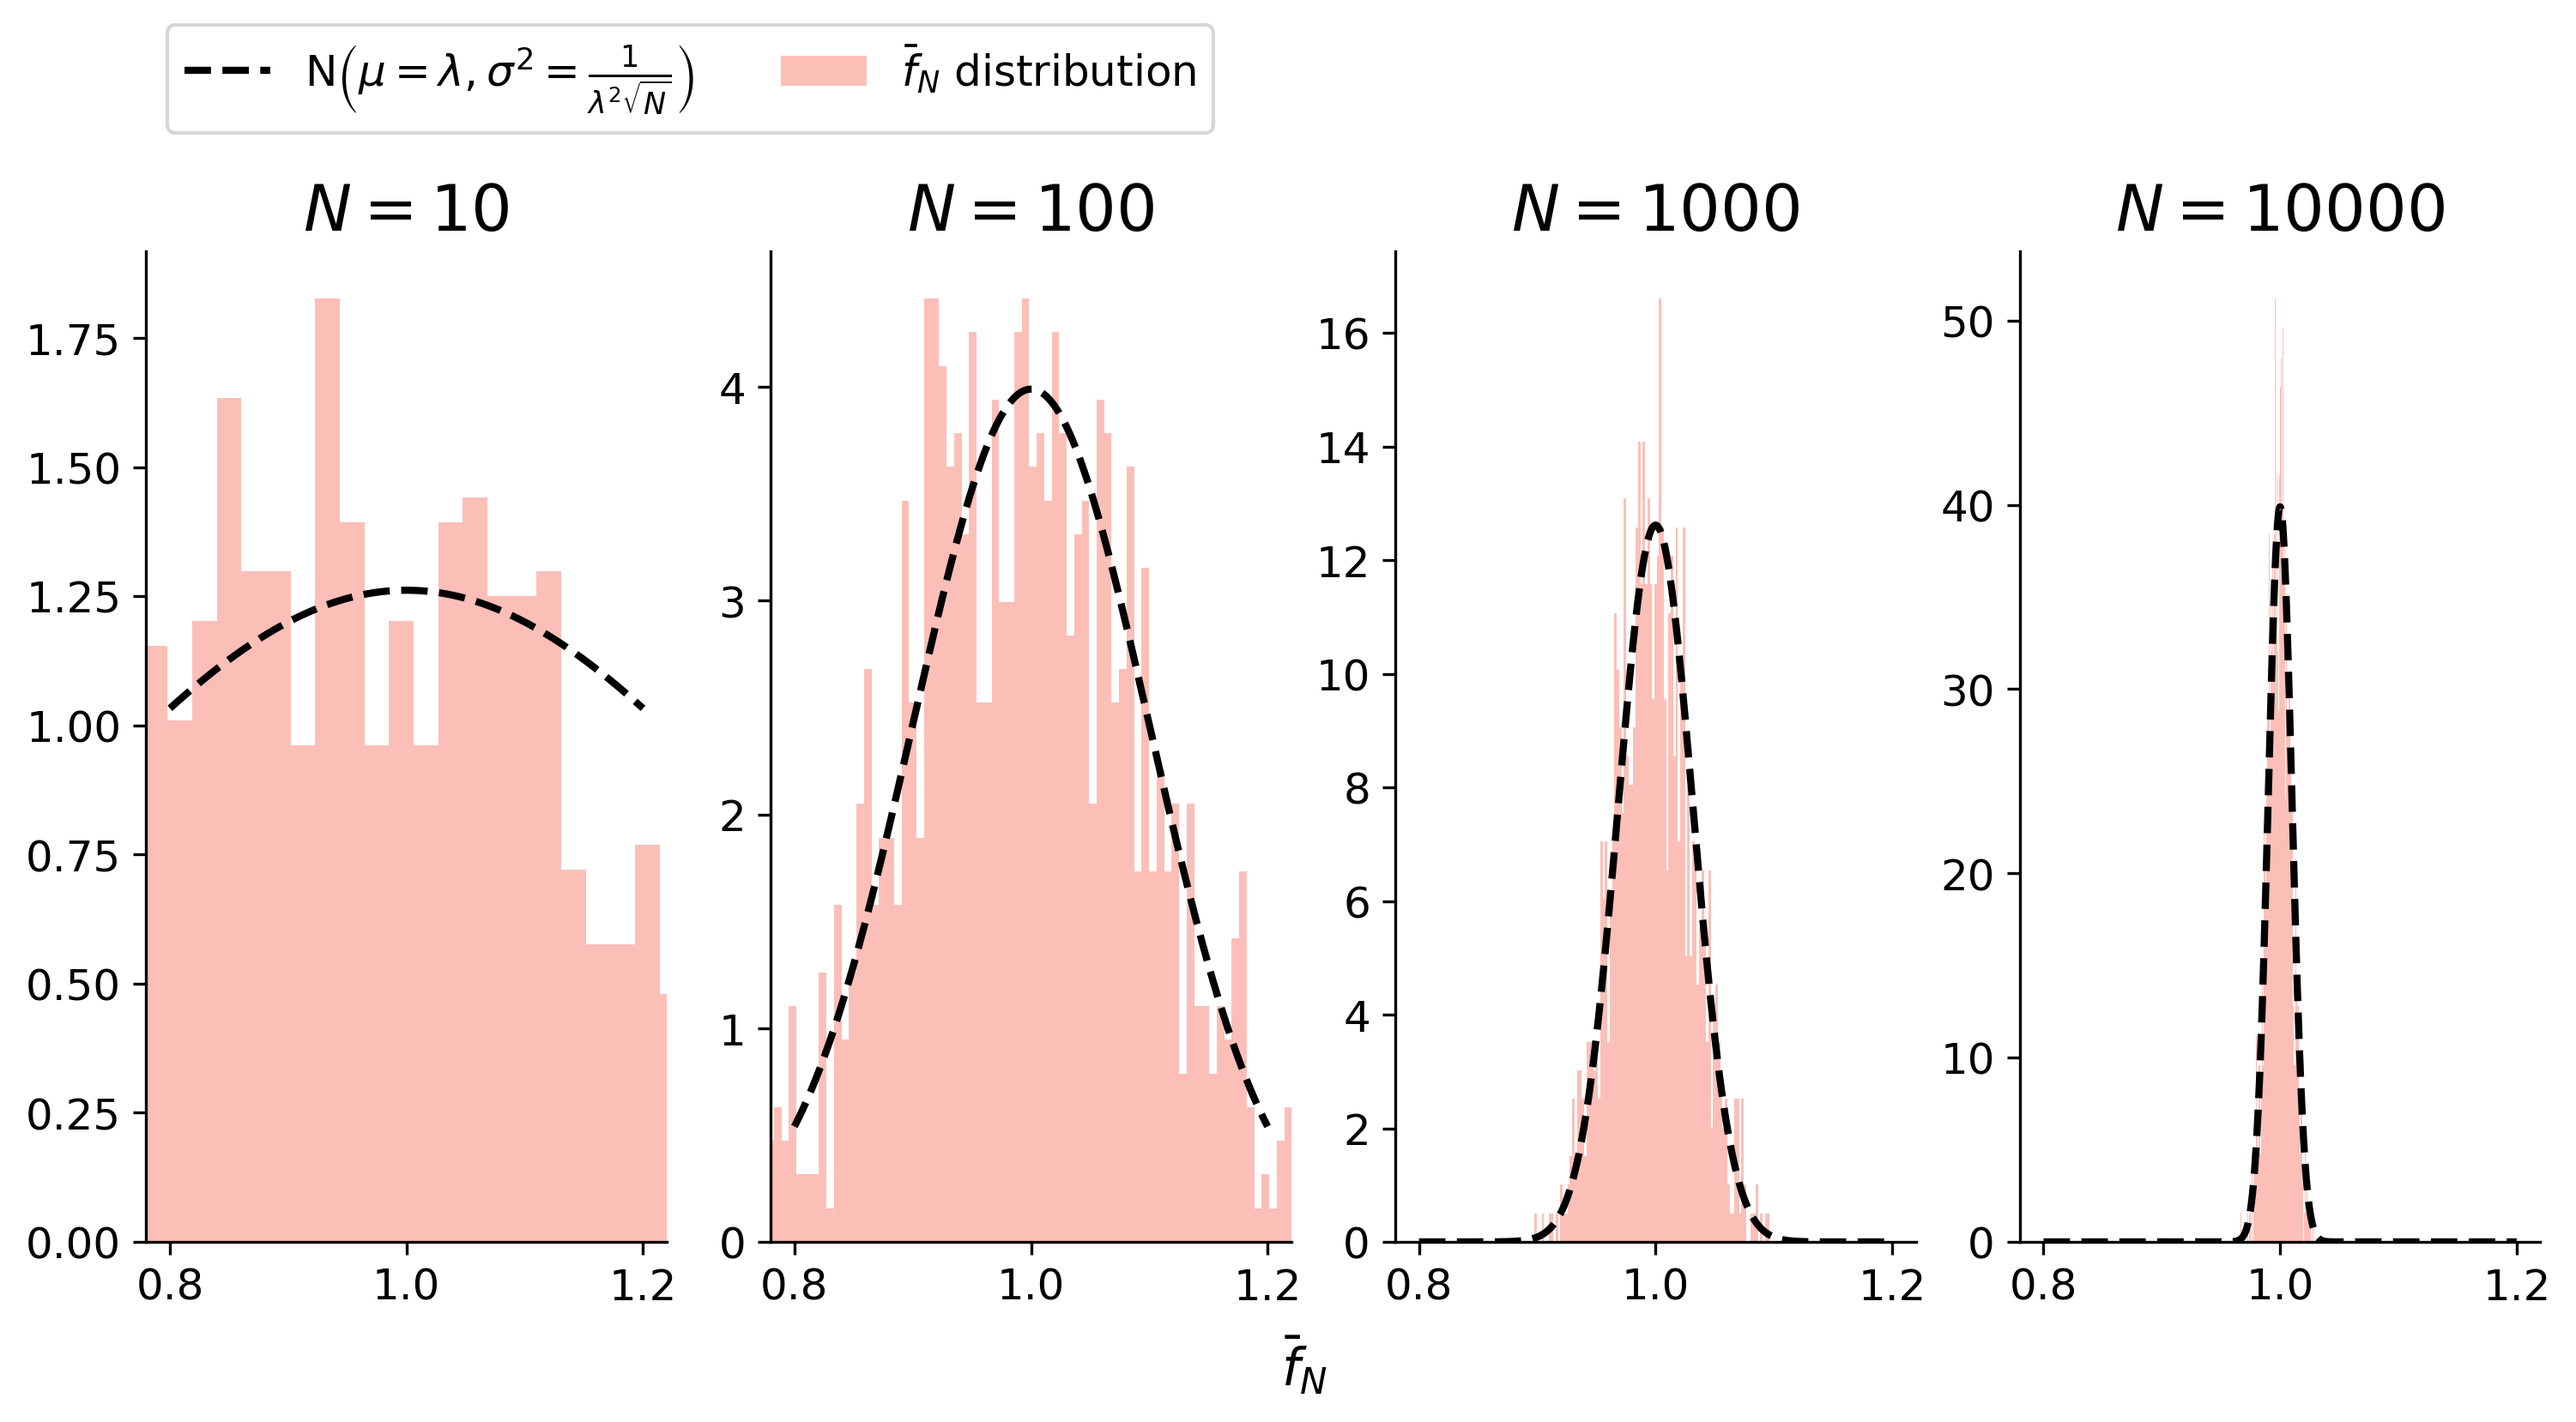
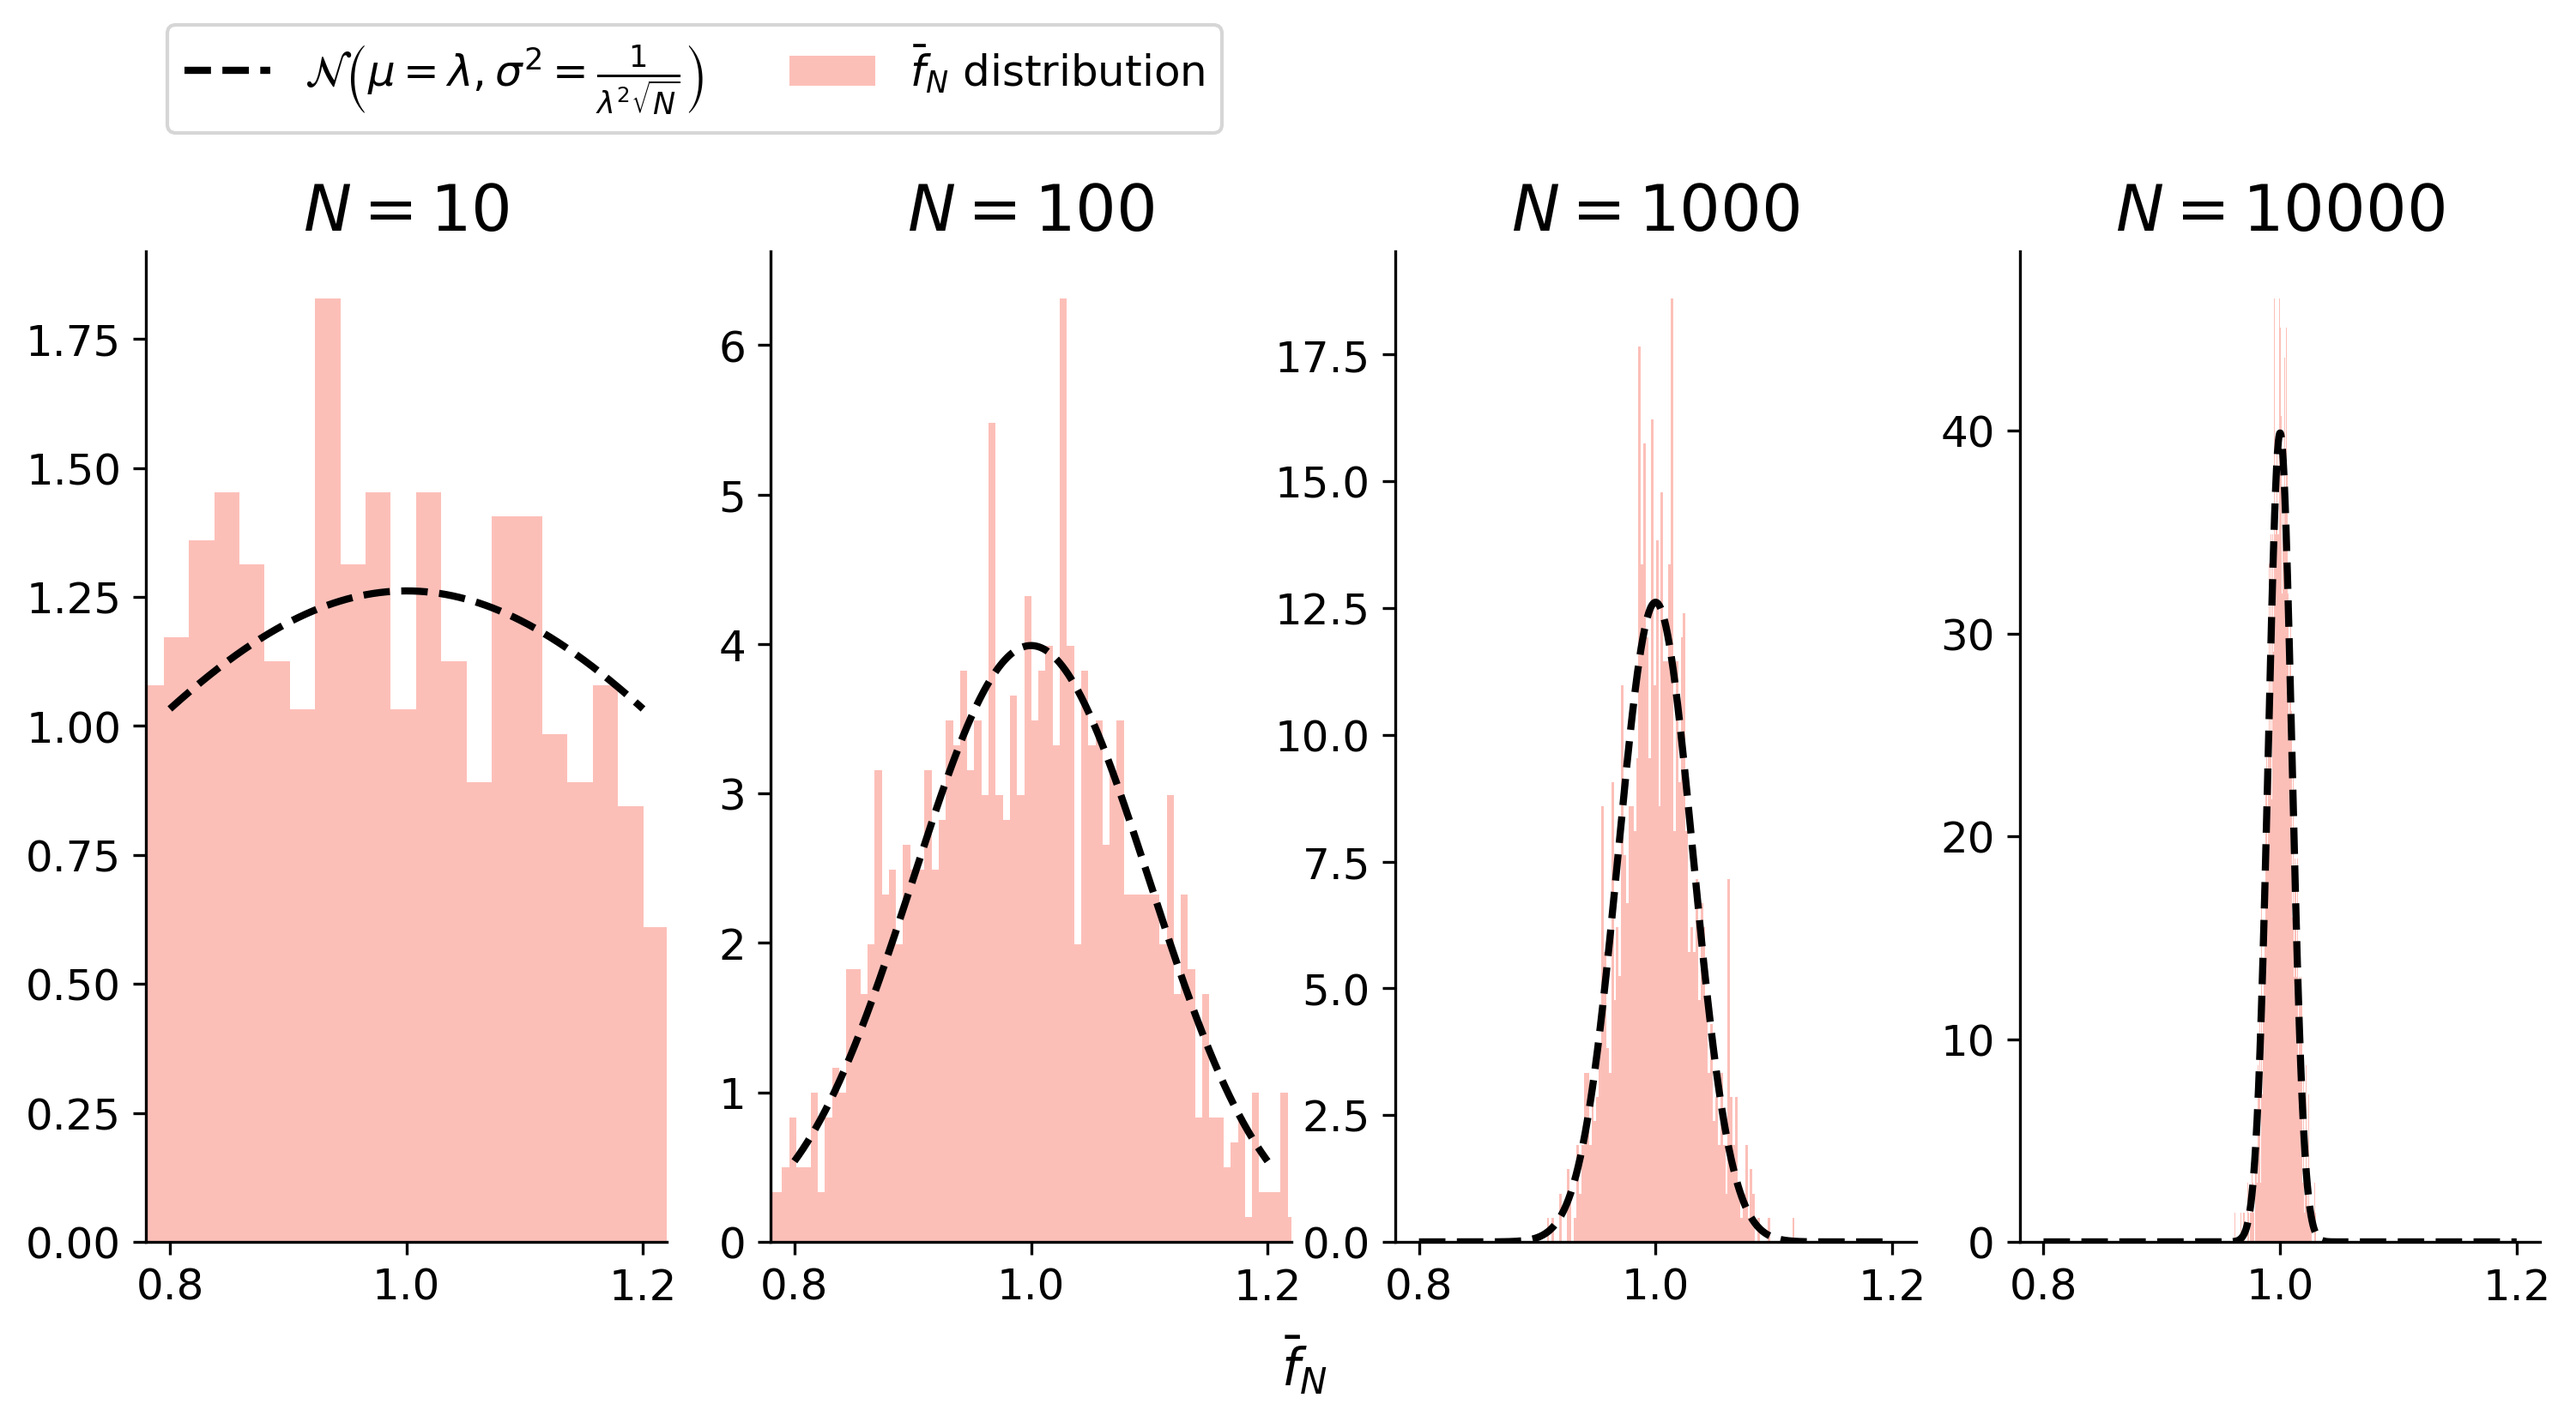
update homework 01

diff --git a/homework/HW01/HW01_CascanteVegaJaime_N19711762.py b/homework/HW01/HW01_CascanteVegaJaime_N19711762.py
@@ -1,0 +1,326 @@
+import numpy.random as dist
+import numpy as np
+import tqdm
+import os
+
+import matplotlib.pyplot as plt
+from plot_utils import *
+
+### 1
+def sample_exponential(num_samples=100, num_repetitions=1, λ=1):
+    """ Sample from exponential distribution with parameter λ.
+
+    Args:
+        num_samples (int, optional): Number of independent samples. Defaults to 100.
+
+    Returns:
+        np.array: column vector of samples of size [num_samples, 1]
+    """
+    return dist.exponential(λ, [num_samples, num_repetitions])
+
+def compute_sample_average(samples):
+    """ Compute the sample average of a column vector.
+
+    Args:
+        samples (np.array): column vector of samples, size [num_samples, 1]
+
+    Returns:
+        np.float64: sample average
+    """
+    return np.mean(samples, 0)
+
+def compute_sample_variance(samples):
+    """ Compute the sample variance of a column vector.
+
+    Args:
+        samples (np.array): column vector of samples, size [num_samples, 1]
+
+    Returns:
+        np.float64: sample variance
+    """
+    return np.var(samples, 0)
+
+def compute_deviation_prob(f_ave, π_f=1, ε=1e-2):
+    """ Probability that Monte Carlo estimate deviates from truth by more than ε.
+
+    Args:
+        f_ave (_type_): Sample average computed from Monte Carlo. Size is [num_repetitions, 1]
+
+    Returns:
+        _type_: _description_
+    """
+    n      = f_ave.shape[0]
+    P_cheb = np.sum(np.abs(f_ave - π_f)>ε)/n
+    return P_cheb
+
+def compute_chebyshev_numerical_bound(f_ave_var, ε=1e-2):
+    """ Numerical upper bound on deviation probability using Chebyshev's inequality.
+
+    Args:
+        f_ave_var : Variance of the Monte carlo error estimate of \bar{f}_N. Size is [num_repetitions, 1]
+
+    Returns:
+        np.float64: Upper bound on deviation probability
+    """
+    P_bound_meas = f_ave_var/(ε**2)
+    return P_bound_meas
+
+def compute_chebyshev_theoretical_bound(σ2=1, ε=1e-2, n=1000):
+    """ Theoretical upper bound on deviation probability using Chebyshev's inequality.
+
+    Args:
+        σ2 (int, optional): Variance of the random variable. Defaults to 1.
+        ε (int, optional): error allowed. Defaults to 1e-2.
+        n (int, optional): sample size. Defaults to 1000.
+
+    Returns:
+        np.float64: Upper bound on deviation probability
+    """
+    P_bound_theo = σ2/(n * ε**2)
+    return P_bound_theo
+
+num_samples     = 1000
+num_repetitions = 10000
+
+samples = sample_exponential(num_samples, num_repetitions)
+
+f_ave = compute_sample_average(samples)
+f_var = compute_sample_variance(f_ave)
+
+# by chebyshev
+ε   = 1e-4
+π_f = 1
+σ2  = 1
+
+
+epsilons = np.linspace(1e-4, 1e-1, 300)
+
+P_chebyshev  = np.full_like(epsilons, np.nan)
+P_num_bound  = np.full_like(epsilons, np.nan)
+P_theo_bound = np.full_like(epsilons, np.nan)
+
+
+for i, εi in enumerate(epsilons):
+    P_chebyshev[i]  = compute_deviation_prob(f_ave, π_f, εi)
+    P_num_bound[i]  = compute_chebyshev_numerical_bound(f_var, εi)
+    P_theo_bound[i] = compute_chebyshev_theoretical_bound(σ2, εi, num_samples)
+
+fig, ax = plt.subplots(1, 1, figsize=(7.2, 5))
+
+ax.plot(epsilons, P_chebyshev,  lw=2, ls="-",  color="k",      label  = r'$P\left(\left|\bar{f}_N-\pi(f)\right|>\epsilon\right)$')
+ax.plot(epsilons, P_num_bound,  lw=2, ls="-",  color="salmon", label  = r'Chebyshev, numerical bound. $\mathrm{Var}\left(\bar{f}_N\right)/\epsilon^2$')
+ax.plot(epsilons, P_theo_bound, lw=2, ls="-.", color="teal",   label = r'Chebyshev, theoretical bound. $\sigma^2/(\epsilon^2\cdot N)$')
+
+ax.set_yscale('log')
+ax.set_xlabel(r'$\mathbf{ε}$')
+ax.legend()
+
+ax.spines['right'].set_visible(False)
+ax.spines['top'].set_visible(False)
+
+fig.savefig(os.path.join(".", "prob01_WLLN.png"),
+                                            dpi=300, transparent=True, bbox_inches='tight')
+
+###########################################################################
+#                       Central Limit theorem                             #
+###########################################################################
+
+def sample_normal(num_samples=100, μ=0, σ=1):
+    """ Sample from normal distribution with parameters μ and σ.
+
+    Args:
+        num_samples (int, optional): Number of independent samples. Defaults to 100.
+
+    Returns:
+        np.array: column vector of samples of size [num_samples, 1]
+    """
+    return dist.normal(μ, σ, [num_samples])
+
+def normal_distribution(x, μ=0, σ=1):
+    """ pdf of normal distribution with parameters μ and σ.
+    """
+    return (1/(σ*np.sqrt(2*np.pi)))*np.exp(-0.5*((x-μ)/σ)**2)
+
+
+λ = 1
+x = np.linspace(0.8, 1.2, 1000)
+
+
+fig, ax = plt.subplots(1, 4, figsize=(12, 5))
+
+for i, num_samples in enumerate([10, 100, 1000, 10000]):
+
+    num_samples = int(num_samples)
+
+    num_repetitions = int(1000)
+    exp_samples     = sample_exponential(num_samples, num_repetitions)
+    f_ave           = compute_sample_average(exp_samples)
+
+    f_clt = sample_normal(num_samples=int(1e6), μ=λ, σ=(1/λ**2)/np.sqrt(num_samples))
+    Xn    = normal_distribution(x, μ=λ, σ=(1/λ**2)/np.sqrt(num_samples))
+
+
+    ax[i].plot(x, Xn, lw=2, ls="--", color="k", label=r'$\mathcal{N}\left(\mu=\lambda, \sigma^2=\frac{1}{\lambda^2\sqrt{N}}\right)$')
+    ax[i].hist(f_ave, bins=100, density=True, color="salmon", alpha=0.5, label=r'$\bar{f}_N$ distribution')
+
+    ax[i].set_title(r'$N={}$'.format(num_samples))
+
+for axi in ax:
+    axi.spines['right'].set_visible(False)
+    axi.spines['top'].set_visible(False)
+    axi.set_xlim((0.78, 1.22))
+
+ax[0].legend(loc='upper left', bbox_to_anchor=(0.0, 1.25), ncol=2)
+
+fig.supxlabel(r'$\bar{f}_N$', y=-.01)
+
+fig.savefig(os.path.join(".", "prob01_CLT.png"),
+                                            dpi=300, transparent=True, bbox_inches='tight')
+
+
+def crps(pred_samples, truth):
+    num_samples = pred_samples.shape[0]
+    pred   = np.sort(pred_samples)
+    diff   = pred[1:] - pred[:-1]
+    weight = np.arange(1, num_samples) * np.arange( num_samples - 1, 0, -1)
+
+    return np.abs(pred - truth).mean(0) - (diff * weight).sum(0) / num_samples**2
+
+def Kullback_Leibler(p, q):
+    kl = p*np.log(p/q)
+    return kl[np.isfinite(kl)].sum()
+
+num_samples_arr = np.logspace(1.0, 5.0, num=30)
+
+Var_f        = np.full(num_samples_arr.shape, np.nan)
+error_f      = np.full(num_samples_arr.shape, np.nan)
+error_normal = np.full(num_samples_arr.shape, np.nan)
+
+error_clt = np.full(num_samples_arr.shape, np.nan)
+
+bins      = np.linspace(0.75, 1.25, 1000)
+
+i = 0
+for num_samples in tqdm.tqdm(num_samples_arr):
+
+    num_samples = int(num_samples)
+
+    num_repetitions = int(1000)
+    exp_samples     = sample_exponential(num_samples, num_repetitions)
+
+
+    f_ave       = compute_sample_average(exp_samples)
+    f_clt       = sample_normal(num_samples=int(num_samples), μ=λ, σ=(1/λ**2)/np.sqrt(num_samples))
+
+    Var_f[i]     = np.var(f_ave)
+
+
+    error_f[i]      = crps(f_ave, np.array([1]))
+    error_normal[i] = crps(f_clt, np.array([1]))
+
+    p_f_ave, _ = np.histogram(f_ave, bins=bins)
+    p_f_sim, _ = np.histogram(f_clt, bins=bins)
+
+    error_clt[i] = Kullback_Leibler(p_f_ave, p_f_sim)
+
+    Xn       = normal_distribution(x, μ=λ, σ=(1/λ**2)/np.sqrt(num_samples))
+    i += 1
+
+fig, ax = plt.subplots(1, 2, figsize=(10.5, 5), sharex=True)
+
+ax[0].plot(num_samples_arr, np.sqrt(Var_f), lw=3, ls="-",  color="darkred", label=r'$\mathrm{Var}\left(\bar{f}_N\right)$')
+ax[0].plot(num_samples_arr, (1/λ**2)/np.sqrt(num_samples_arr), lw=2, ls="--",  color="darkgrey", label=r'$\sigma^2=\frac{1}{\lambda^2\sqrt{N}}$')
+
+ax[1].plot(num_samples_arr, error_f, lw=3, ls="-",  color="salmon", label=r'Monte Carlo approx')
+ax[1].plot(num_samples_arr, error_normal, lw=2, ls="--",  color="k", label=r'CLT approx')
+
+ax[0].set_xscale('log')
+ax[0].set_ylabel(r'Monte Carlo uncertainty')
+
+ax[1].set_ylabel(r'Monte Carlo error')
+
+
+ax[0].legend(loc="upper left", ncol=2, frameon=False, bbox_to_anchor=(0.0, 1.1))
+ax[1].legend(loc="upper left", ncol=1, frameon=False, bbox_to_anchor=(0.0, 1.15))
+
+#ax[2].plot(num_samples_arr, error_clt, lw=2, ls="-",  color="teal", label=r'$KL\left(MC\left(\bar{f}_N\right), \mathcal{N}\left(\mu=\lambda, \sigma^2=\frac{1}{\lambda^2\sqrt{N}}\right)\right)$')
+#ax[2].legend(loc="upper left",  bbox_to_anchor=(0.0, 1.1), frameon=False)
+#ax[2].set_ylabel(r'CLT error')
+
+for axi in ax:
+    axi.spines['right'].set_visible(False)
+    axi.spines['top'].set_visible(False)
+
+fig.supxlabel(r'Sample size, $N$', y=-.01)
+
+
+fig.savefig(os.path.join(".", "prob01_MC-CLT_error.png"),
+                                            dpi=300, transparent=True, bbox_inches='tight')
+
+###########################################################################
+#            Concentration inequality using Chernoff's bound              #
+###########################################################################
+def Ia(f_bar=1, pi_f=1, a=1e-3, λ=1):
+
+    ldp_o  = λ*a - np.log(np.mean(np.exp(λ*(f_bar - pi_f))))
+
+    return np.max(ldp_o)
+
+def compute_chernoff_prob(f_ave, π_f=1, a=1e-2):
+    n      = f_ave.shape[0]
+
+    P_cher = np.sum(f_ave - π_f>=a)/n
+    return P_cher
+
+num_samples     = 1000
+num_repetitions = 1000
+
+π_f          = 1
+exp_samples  = sample_exponential(num_samples, num_repetitions)
+
+epsilon = np.linspace(1e-3, 0.05, 100)
+
+P_chernoff   = np.full(epsilon.shape, np.nan)
+P_cher_bound = np.full(epsilon.shape, np.nan)
+
+λ = 0.01
+
+for i, εi in enumerate(epsilon):
+
+    P_chernoff[i]   = compute_chernoff_prob(f_ave, π_f, a=εi)
+    P_cher_bound[i] = np.exp(-num_samples*Ia(f_ave, π_f, a=εi, λ=λ))
+
+fig, ax = plt.subplots(1, 3, figsize=(12.2, 5), sharex=True, sharey=True)
+
+for il, λ in enumerate([0.01, 0.1, 0.5]):
+    P_chernoff   = np.full(epsilon.shape, np.nan)
+    P_cher_bound = np.full(epsilon.shape, np.nan)
+
+    for i, εi in enumerate(epsilon):
+
+        P_chernoff[i]   = compute_chernoff_prob(f_ave, π_f, a=εi)
+        P_cher_bound[i] = np.exp(-num_samples*Ia(f_ave, π_f, a=εi, λ=λ))
+
+    ax[il].plot(epsilon, P_chernoff,  lw=2, ls="-",  color="k",      label  = r'$P\left( \bar{f}_N-\pi(f)\geq a\right)$')
+    ax[il].plot(epsilon, P_cher_bound,  lw=2, ls="-",  color="salmon", label  = r'Chernoff bound, $\exp\left(-N\cdot I(a)\right)$')
+
+    ax[il].set_title("λ={}".format(λ))
+
+for axi in ax.flatten():
+    axi.spines['right'].set_visible(False)
+    axi.spines['top'].set_visible(False)
+
+    axi.set_yscale('logit')
+    axi.set_xscale('logit')
+
+
+fig.supylabel(r'probability', weight="bold")
+fig.supxlabel(r'$\mathbf{a}$', y=-0.1)
+
+ax[0].legend(loc="lower left",  frameon=True, ncol=1)
+
+ax[0].tick_params(axis='x', which="both", labelrotation=90)
+ax[1].tick_params(axis='x', which="both", labelrotation=90)
+ax[2].tick_params(axis='x', which="both", labelrotation=90)
+
+fig.savefig(os.path.join(".", "prob01_Chernoff.png"), dpi=300, transparent=True, bbox_inches='tight')
